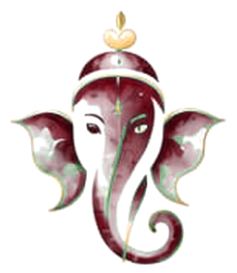
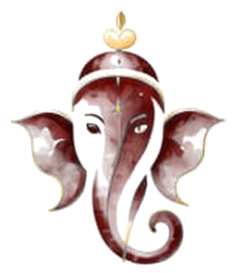
Wedding palette, two-leaf corner, venue link, even type; mobile-first pass
- Palette from the colour profile: oxblood #7A1006 text, antique gold #A8823A
  rules (deeper #7A5A1E for gold text), warm ivory #F2E6CF paper;
  Ganapathi, envelope, nav dot and link preview recoloured to match
- Bottom-left: two leaves in a clean V with no overlap, cropped and visible on phones
- Falling leaves: only the four complete drawn leaves
- Venue name is now the Google Maps link; map popup removed
- Typography: everything regular weight; buttons use the loaded 500 instead of a
  faux-bold 600; date no longer bold; script lines balance on narrow screens
- RSVP choice buttons no longer wrap on phones
- Link preview renamed (og-invite.jpg) so WhatsApp picks up the new one

Claude-Session: https://claude.ai/code/session_01WpfQfujxHhr6udEaJacsYk

diff --git a/src/components/ui/InvitationIntro.tsx b/src/components/ui/InvitationIntro.tsx
@@ -68,7 +68,7 @@ function StickerPhoto({
           >
             <path
               d={ring.d}
-              stroke="#C2A876"
+              stroke="#A8823A"
               strokeWidth={ring.w}
               fill="none"
               opacity={ring.opacity}
@@ -82,7 +82,7 @@ function StickerPhoto({
         <div
           className="absolute inset-[8%] rounded-full overflow-hidden"
           style={{
-            boxShadow: "0 0 18px rgba(194,168,118,0.25), 0 4px 14px rgba(15,72,72,0.18)",
+            boxShadow: "0 0 18px rgba(168,130,58,0.25), 0 4px 14px rgba(74,40,10,0.18)",
           }}
         >
           <Image
@@ -147,12 +147,12 @@ function EnvelopeOpening({ onReveal, onDone }: { onReveal: () => void; onDone: (
       >
         {/* Back of the envelope */}
         {/* no gold edge along the top: it would show through the card as it slides out */}
-        <div className="absolute inset-0 rounded-b-[3px] bg-[#5A1520] border-x border-b border-gold" />
+        <div className="absolute inset-0 rounded-b-[3px] bg-[#5C0C05] border-x border-b border-gold" />
 
         {/* The card inside */}
         <motion.div
           className="absolute left-[6%] right-[6%] top-[5%] bottom-[5%] z-10 flex flex-col items-center justify-center
-                     bg-paper border border-gold shadow-[0_6px_20px_rgba(15,72,72,0.18)]"
+                     bg-paper border border-gold shadow-[0_6px_20px_rgba(74,40,10,0.18)]"
           initial={{ y: 0 }}
           animate={
             phase === "flap"
@@ -176,12 +176,12 @@ function EnvelopeOpening({ onReveal, onDone }: { onReveal: () => void; onDone: (
 
         {/* Front pocket (covers the lower card) */}
         <svg viewBox="0 0 100 100" preserveAspectRatio="none" className="absolute inset-0 z-20 w-full h-full">
-          <path d="M0 0 L48 58 L0 100 Z" fill="#6E1B27" />
-          <path d="M100 0 L52 58 L100 100 Z" fill="#6E1B27" />
-          <path d="M0 100 L50 50 L100 100 Z" fill="#7A1F2B" />
-          <path d="M0 100 L50 50 L100 100" fill="none" stroke="#C2A876" strokeWidth="0.6" vectorEffect="non-scaling-stroke" />
+          <path d="M0 0 L48 58 L0 100 Z" fill="#6E0E06" />
+          <path d="M100 0 L52 58 L100 100 Z" fill="#6E0E06" />
+          <path d="M0 100 L50 50 L100 100 Z" fill="#7A1006" />
+          <path d="M0 100 L50 50 L100 100" fill="none" stroke="#A8823A" strokeWidth="0.6" vectorEffect="non-scaling-stroke" />
           {/* gold edge on the sides and bottom only — the top is the open mouth */}
-          <path d="M0 0 L0 100 L100 100 L100 0" fill="none" stroke="#C2A876" strokeWidth="1" vectorEffect="non-scaling-stroke" />
+          <path d="M0 0 L0 100 L100 100 L100 0" fill="none" stroke="#A8823A" strokeWidth="1" vectorEffect="non-scaling-stroke" />
         </svg>
 
         {/* Flap with a gold seal */}
@@ -193,11 +193,11 @@ function EnvelopeOpening({ onReveal, onDone }: { onReveal: () => void; onDone: (
           transition={{ duration: 0.6, ease: [0.65, 0, 0.35, 1] }}
         >
           <svg viewBox="0 0 100 100" preserveAspectRatio="none" className="absolute inset-0 w-full h-full">
-            <path d="M0 0 L50 100 L100 0 Z" fill="#681A25" stroke="#C2A876" strokeWidth="1" vectorEffect="non-scaling-stroke" />
+            <path d="M0 0 L50 100 L100 0 Z" fill="#690E06" stroke="#A8823A" strokeWidth="1" vectorEffect="non-scaling-stroke" />
           </svg>
           <span
             className="absolute left-1/2 bottom-0 -translate-x-1/2 translate-y-1/2 w-9 h-9 rounded-full
-                       bg-[#B8995E] border border-[#E4D2A6] shadow-[0_2px_6px_rgba(0,0,0,0.25)]
+                       bg-[#A8823A] border border-[#D9C08A] shadow-[0_2px_6px_rgba(0,0,0,0.25)]
                        flex items-center justify-center [backface-visibility:hidden]"
           >
             <Image src={`${basePath}/monstera-leaf.png`} alt="" width={16} height={18} className="w-3.5 h-auto opacity-90 [filter:brightness(1.6)_sepia(0.6)]" />
@@ -264,7 +264,7 @@ export function InvitationIntro({
             {/* eslint-disable-next-line @next/next/no-img-element */}
             <img src={`${basePath}/monstera-vine.webp`} alt="" aria-hidden="true" className="monstera-vine" />
             {/* eslint-disable-next-line @next/next/no-img-element */}
-            <img src={`${basePath}/leaves/corner-cluster.webp`} alt="" aria-hidden="true" className="corner-leaf" />
+            <img src={`${basePath}/leaves/corner-pair.webp`} alt="" aria-hidden="true" className="corner-leaf" />
             <div className="kasavu-frame" aria-hidden="true" />
 
             {/* Ganesha from the invite */}
@@ -358,11 +358,11 @@ export function InvitationIntro({
               >
                 <rect
                   x="2" y="14" width="96" height="52" rx="3"
-                  fill="#7A1F2B" stroke="#C2A876" strokeWidth="1.2"
+                  fill="#7A1006" stroke="#A8823A" strokeWidth="1.2"
                 />
                 <path
                   d="M2 14 L50 44 L98 14" fill="none"
-                  stroke="#C2A876" strokeWidth="1.2" strokeLinejoin="round"
+                  stroke="#A8823A" strokeWidth="1.2" strokeLinejoin="round"
                 />
               </svg>
               <span className="text-ink text-lg md:text-base font-sans group-hover:text-cream transition-colors tracking-wide">

diff --git a/src/app/globals.css b/src/app/globals.css
@@ -1,29 +1,29 @@
 @import "tailwindcss";
 
 @theme inline {
-  /* ── Monstera palette (from the wedding invite) ── */
-  /*    Ivory paper, deep monstera teal ink,          */
-  /*    sage leaves and a soft antique-gold rule.      */
-  --color-paper: #FCFBF7;      /* page background */
-  --color-paper-alt: #F1F6F2;  /* pale mint watercolour wash */
-  --color-ink: #7A1F2B;        /* names & headings: Kerala maroon */
-  --color-teal-ink: #0F4848;   /* invite teal, kept for artwork accents */
+  /* ── Wedding palette (from claude/colour-profile.md) ──────────── */
+  /*    Warm ivory paper, oxblood ink, antique gold; the teal and    */
+  /*    sage watercolours from the invite stay in the background.    */
+  --color-paper: #F2E6CF;      /* warm ivory: page background */
+  --color-paper-alt: #EADCC0;  /* slightly deeper ivory for alternate sections */
+  --color-ink: #7A1006;        /* oxblood: names, headings, links (8.9:1 on ivory) */
+  --color-teal-ink: #0F4848;   /* invite teal, artwork accents only */
   --color-leaf: #2F6B5C;       /* mid monstera green */
   --color-olive: #546343;      /* ampersand on the invite */
   --color-sage: #8FB3A3;       /* light leaf */
 
-  /* Legacy token names, remapped onto the light theme */
-  --color-primary: #7A1F2B;
+  /* Legacy token names, mapped onto the palette */
+  --color-primary: #7A1006;
   --color-secondary: #2F6B5C;
-  --color-accent: #9E7F45;     /* antique gold, dark enough for text */
-  --color-gold: #C2A876;       /* gold rule on the invite */
-  --color-gold-light: #7E6434; /* hover: deeper gold on light bg */
-  --color-dark: #3E1219;
-  --color-cream: #4A1820;      /* body text: deep maroon-brown, high contrast */
+  --color-accent: #7A5A1E;     /* deep antique gold for gold TEXT (5.1:1) */
+  --color-gold: #A8823A;       /* antique gold: rules, borders, icons */
+  --color-gold-light: #5E4414; /* hover on gold text */
+  --color-dark: #4A0A04;
+  --color-cream: #3D1A10;      /* body text: deep warm brown (12.7:1) */
   --color-muted: #8FB3A3;
-  --color-teal: #FCFBF7;       /* was dark teal bg → ivory */
-  --color-teal-light: #FFFFFF;
-  --color-teal-deep: #F1F6F2;  /* alternate section → mint wash */
+  --color-teal: #F2E6CF;       /* body background (old token name) */
+  --color-teal-light: #FBF5E8;
+  --color-teal-deep: #EADCC0;
   --color-groom-red: #B5403A;
   --color-bride-teal: #3A7D7B;
 
@@ -175,10 +175,11 @@ body {
 /* Script names, as on the invite (a hair of stroke matches the card's weight) */
 /* Short phrases in the same script, slightly lighter */
 .script-line {
+  text-wrap: balance; /* even line breaks on narrow phones */
   font-family: var(--font-script);
   font-weight: 400;
   color: var(--color-ink);
-  -webkit-text-stroke: 0.35px currentColor;
+  -webkit-text-stroke: 0.4px currentColor;
   line-height: 1;
 }
 
@@ -190,27 +191,27 @@ body {
   line-height: 0.95;
 }
 
-/* ── Monstera leaves fanning out from the bottom-left corner ─ */
+/* ── Two monstera leaves growing from the bottom-left corner ─ */
 
 .corner-leaf {
   position: fixed;
   left: 0;
   bottom: 0;
-  width: clamp(190px, 24vw, 340px);
+  width: clamp(170px, 17vw, 260px);
   height: auto;
   pointer-events: none;
   user-select: none;
   z-index: 0;
   opacity: 0.9;
-  transform: translate(-10%, 10%);
+  transform: translate(-4%, 4%);
   transform-origin: 0% 100%;
 }
 
 @media (max-width: 767px) {
   .corner-leaf {
-    width: 150px;
-    opacity: 0.5;
-    transform: translate(-16%, 14%);
+    width: 140px;
+    opacity: 0.8;
+    transform: translate(-8%, 6%);
   }
 }
 

diff --git a/src/components/sections/HeroSection.tsx b/src/components/sections/HeroSection.tsx
@@ -4,7 +4,7 @@ import Image from "next/image";
 import { motion } from "framer-motion";
 import { MapPin, CalendarPlus } from "lucide-react";
 import { weddingConfig } from "@/wedding.config";
-import { PhotoBooth, VenueMap } from "@/components/ui";
+import { PhotoBooth } from "@/components/ui";
 
 const stagger = {
   hidden: { opacity: 0 },
@@ -125,7 +125,7 @@ export function HeroSection() {
 
         {/* Date */}
         <motion.div variants={fadeUp}>
-          <p className="font-serif font-medium text-ink text-[1.65rem] leading-tight md:text-2xl">
+          <p className="font-serif text-ink text-[1.75rem] leading-tight md:text-3xl">
             {formattedDate}
           </p>
           <p className="font-sans text-cream text-xl md:text-lg mt-0.5">
@@ -133,15 +133,21 @@ export function HeroSection() {
           </p>
         </motion.div>
 
-        {/* Venue: one line, with a small map link (opens a popup) and calendar link */}
+        {/* Venue: the name itself opens Google Maps */}
         <motion.div variants={fadeUp} className="mt-4 flex flex-col items-center">
-          <p className="inline-flex items-center gap-1.5 font-serif text-[1.4rem] leading-tight md:text-xl text-ink">
-            <MapPin size={15} className="shrink-0 text-accent" />
+          <a
+            href={event.mapUrl}
+            target="_blank"
+            rel="noopener noreferrer"
+            aria-label={`${event.venue}, ${event.address}: open in Google Maps`}
+            className="group inline-flex items-center gap-1.5 font-serif text-[1.45rem] leading-tight md:text-2xl text-ink
+                       underline decoration-gold decoration-1 underline-offset-[6px] hover:decoration-ink transition-colors"
+          >
+            <MapPin size={17} className="shrink-0 text-gold" aria-hidden="true" />
             {event.venue}
-          </p>
-          <p className="text-cream text-lg md:text-base leading-tight">{event.address}</p>
-          <div className="mt-2 flex items-center justify-center gap-5 text-lg md:text-base">
-            <VenueMap />
+          </a>
+          <p className="mt-1 text-cream text-lg md:text-lg leading-tight">{event.address}</p>
+          <div className="mt-2 flex items-center justify-center text-lg md:text-base">
             <a
               href={calendarUrl}
               target="_blank"

diff --git a/src/components/ui/PhotoBooth.tsx b/src/components/ui/PhotoBooth.tsx
@@ -17,7 +17,7 @@ function Tint() {
   return (
     <>
       <span className="absolute inset-0 bg-[#2F6B5C]/15 mix-blend-soft-light pointer-events-none" />
-      <span className="absolute inset-0 bg-[#FCFBF7]/10 mix-blend-screen pointer-events-none" />
+      <span className="absolute inset-0 bg-[#F2E6CF]/10 mix-blend-screen pointer-events-none" />
     </>
   );
 }
@@ -61,7 +61,7 @@ export function PhotoBooth({ className = "" }: { className?: string }) {
         whileTap={{ scale: 0.95 }}
         transition={{ type: "spring", stiffness: 260, damping: 18 }}
         className={`relative block bg-paper border border-gold px-[3px] pt-[3px] pb-2.5 cursor-pointer
-                    shadow-[0_2px_10px_rgba(15,72,72,0.14)] focus:outline-none
+                    shadow-[0_2px_10px_rgba(74,40,10,0.14)] focus:outline-none
                     focus-visible:ring-2 focus-visible:ring-gold focus-visible:ring-offset-2 ${className}`}
         aria-label="Open the photo booth strip"
         aria-haspopup="dialog"
@@ -169,7 +169,7 @@ function BoothStrip({
         animate={reduceMotion ? { opacity: 1 } : { y: 0, rotate: -2, clipPath: "inset(0 0 0% 0)" }}
         exit={{ opacity: 0, y: 30, transition: { duration: 0.2 } }}
         transition={{ duration: 1.1, ease: [0.22, 1, 0.36, 1] }}
-        className="bg-paper border border-gold p-2.5 pb-3 shadow-[0_10px_40px_rgba(15,72,72,0.22)]
+        className="bg-paper border border-gold p-2.5 pb-3 shadow-[0_10px_40px_rgba(74,40,10,0.22)]
                    w-[min(52vw,210px)] max-h-full flex flex-col"
       >
         <div className="flex flex-col gap-2 min-h-0">

diff --git a/src/wedding.config.ts b/src/wedding.config.ts
@@ -24,8 +24,6 @@ export const weddingConfig = {
     muhurthamTime: "12:12 p.m. to 12:33 p.m.",
     venue: "RDR Auditorium",
     address: "Thiruvananthapuram",
-    mapEmbedUrl:
-      "https://www.google.com/maps?q=RDR+Auditorium,+Edapazhanji,+Thiruvananthapuram,+Kerala&z=15&output=embed",
     mapUrl: "https://www.google.com/maps/search/RDR+Auditorium+Edapazhanji+Thiruvananthapuram",
   },
 
@@ -38,7 +36,7 @@ export const weddingConfig = {
     title: "Save the Sadhya",
     description:
       "You are cordially invited to celebrate the wedding of Gayathri & Anand.",
-    ogImage: "og-image.jpg", // link-preview card (WhatsApp etc.), 1200×630 in /public
+    ogImage: "og-invite.jpg", // link-preview card (WhatsApp etc.), 1200×630 in /public
   },
 } as const;
 

diff --git a/src/app/page.tsx b/src/app/page.tsx
@@ -50,7 +50,7 @@ export default function Home() {
       {/* eslint-disable-next-line @next/next/no-img-element */}
       <img src={`${basePath}/monstera-vine.webp`} alt="" aria-hidden="true" className="monstera-vine" />
       {/* eslint-disable-next-line @next/next/no-img-element */}
-      <img src={`${basePath}/leaves/corner-cluster.webp`} alt="" aria-hidden="true" className="corner-leaf" />
+      <img src={`${basePath}/leaves/corner-pair.webp`} alt="" aria-hidden="true" className="corner-leaf" />
       <div className="kasavu-frame" aria-hidden="true" />
 
       <InvitationIntro onEnter={handleEnter}>

diff --git a/src/components/ui/Confetti.tsx b/src/components/ui/Confetti.tsx
@@ -9,14 +9,12 @@ import { motion, AnimatePresence } from "framer-motion";
  * (Kept the `Confetti` name so existing imports keep working.)
  */
 
-// Whole monstera leaves: four drawn, two cut from the invite painting.
+// Four complete, drawn monstera leaves (painted cut-outs looked torn on ivory).
 const LEAVES = [
   "/leaves/monstera-1.png",
   "/leaves/monstera-2.png",
   "/leaves/monstera-3.png",
   "/leaves/monstera-4.png",
-  "/leaves/monstera-5.png",
-  "/leaves/monstera-6.png",
 ];
 
 interface Leaf {

diff --git a/src/components/ui/NavigationDots.tsx b/src/components/ui/NavigationDots.tsx
@@ -62,7 +62,7 @@ export function NavigationDots() {
           <motion.span
             animate={{
               scale: active === i ? 1 : 0.6,
-              backgroundColor: active === i ? "#7A1F2B" : "#8FB3A3",
+              backgroundColor: active === i ? "#7A1006" : "#8FB3A3",
             }}
             transition={{ duration: 0.3 }}
             className="block w-2.5 h-2.5 rounded-full border border-accent/30"

diff --git a/src/components/sections/RSVPSection.tsx b/src/components/sections/RSVPSection.tsx
@@ -87,7 +87,7 @@ export function RSVPSection() {
     "transition-colors";
 
   const buttonBase =
-    "px-6 py-3 rounded-sm font-sans text-lg md:text-base font-semibold tracking-wide transition-all";
+    "px-3 md:px-6 py-3 rounded-sm font-sans text-lg md:text-base font-medium tracking-wide whitespace-nowrap transition-all";
 
   return (
     <section className="w-full px-5 py-12 md:px-8 md:py-16 flex justify-center">

diff --git a/src/components/ui/index.ts b/src/components/ui/index.ts
@@ -1,5 +1,4 @@
 export { DressCode } from "./DressCode";
-export { VenueMap } from "./VenueMap";
 export { PhotoBooth } from "./PhotoBooth";
 export { BackgroundMusic } from "./BackgroundMusic";
 export { Confetti } from "./Confetti";

diff --git a/src/components/ui/Lotus.tsx b/src/components/ui/Lotus.tsx
@@ -6,7 +6,7 @@
  */
 export function Lotus({
   className = "",
-  color = "#C2A876",
+  color = "#A8823A",
 }: {
   className?: string;
   color?: string;
